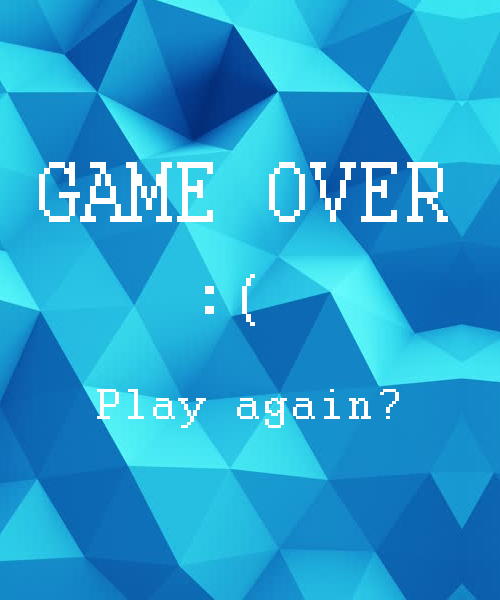
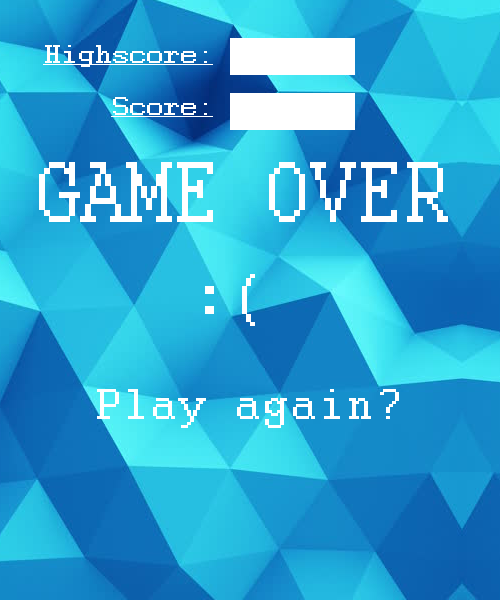
No music but almost

Changed region(s): [[0.45, 0.06, 0.72, 0.24], [0.09, 0.06, 0.39, 0.12], [0.21, 0.15, 0.39, 0.21]]

diff --git a/ICS3U - Richard Kha/src/kha/culminating/Tetris.java b/ICS3U - Richard Kha/src/kha/culminating/Tetris.java
@@ -22,6 +22,7 @@ public class Tetris extends ConsoleView {
 	static byte colour = 0;
 	static boolean finishGame = false;
 	static boolean[] fixedRandom = new boolean [35];
+	
 
 	@Override
 	public void run() {
@@ -51,7 +52,7 @@ public class Tetris extends ConsoleView {
 		MediaPlayer [] mediaPlayer = new MediaPlayer [5];
 		mediaPlayer[0] = new MediaPlayer(new Media(new File("Background.mp3").toURI().toString()));
 		mediaPlayer[1] = new MediaPlayer(new Media(new File("Recording.mp3").toURI().toString()));
-		
+		int highScore = 0;
 		
 
 		int count = 0;
@@ -351,17 +352,17 @@ public class Tetris extends ConsoleView {
 						}
 						mediaPlayer[1].stop();
 						totalLinesCleared += linesClearedCounter;
-						score += speedMultiplier*(100)*linesClearedCounter;
+						score += (100)*Math.pow(linesClearedCounter,2)*speedMultiplier;
 						if (totalLinesCleared %10 == 0 && linesClearedCounter!=0) {
-							constantSpeedChange= (byte) Math.round(constantSpeedChange/1.4);
+							constantSpeedChange= (byte) Math.round(constantSpeedChange/1.9);
 							normal = constantSpeedChange;
-							speedMultiplier *=1.8;
+							speedMultiplier = speedMultiplier * 1.8;
 						}
+						
 						currentType = usingTetromino();
 						randomTetromino();
 					}
 					else {
-
 						movement(0,1);
 					}
 					refres = true;
@@ -379,7 +380,6 @@ public class Tetris extends ConsoleView {
 						delay[i]++;
 					}
 				}
-
 				c.sleep(32);
 			}
 			count = 0;
@@ -394,6 +394,9 @@ public class Tetris extends ConsoleView {
 				c.refresh();
 			}
 			c.sleep(1000);
+			if (score>highScore) {
+				highScore = score;
+			}
 			while (true) {
 				if (count%10 <5 ) {
 					c.clear();
@@ -401,7 +404,10 @@ public class Tetris extends ConsoleView {
 					c.setFill(Color.WHITE);
 					c.setFont(STYLESHEET_CASPIAN,30);
 					for (int i = String.valueOf(score).length()-1; i>=0; i--) {
-						c.drawImage(font[Character.getNumericValue(String.valueOf(score).charAt(i))], 42-(String.valueOf(score).length()-1-i)*11+(String.valueOf(score).length())*11, 100);
+						c.drawImage(font[Character.getNumericValue(String.valueOf(score).charAt(i))], 224-(String.valueOf(score).length()-1-i)*11+(String.valueOf(score).length())*11, 104);
+					}
+					for (int i = String.valueOf(highScore).length()-1; i>=0; i--) {
+						c.drawImage(font[Character.getNumericValue(String.valueOf(highScore).charAt(i))], 224-(String.valueOf(highScore).length()-1-i)*11+(String.valueOf(highScore).length())*11, 51);
 					}
 					
 				}
@@ -410,6 +416,7 @@ public class Tetris extends ConsoleView {
 					c.fillText("Press the escape key to exit", 42, 550);
 				}
 				count++;
+				
 				if (c.isKeyDown("Space")) {
 					break;
 				}
@@ -452,10 +459,10 @@ public class Tetris extends ConsoleView {
 			tempX += coordinates[1][0];
 			coordinates2[1][i] = tempX;
 			coordinates2[0][i] = tempY;	
-			if (tempY>=20 || tempY<0 || tempX>=10 || tempX<0) {
+			if (tempY>=board.length || tempY<0 || tempX>=board[0].length || tempX<0) {
 				change = false;
 			}
-			if (change != false && board[tempY][tempX] == 2) {
+			if (change != false && board[tempY][tempX] > 1) {
 				change = false;
 			}
 
